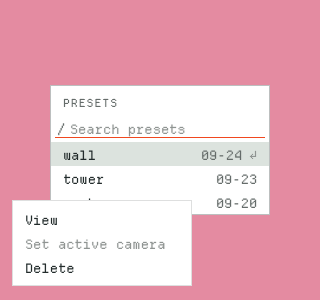
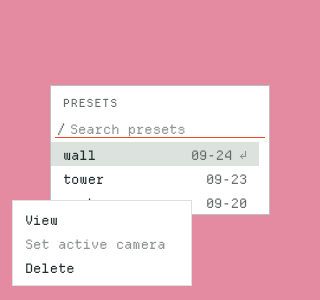
[U2b.4.15 fix] a settling frame keeps its copy/paste request; picker tests, overlays golden and the Bodies page follow the scrolling results
Found at the U4a.9 resume: four Tier A cases were red at ac4ec089 (each reproduced with the U2b.4.15 picker as committed).
1. Engine: a frame that settles builds again through `begin_frame`, which cleared `out.paste` and `out.clipboard`, so a copy or paste
   asked for in the first build was lost (the quiet build has no key to ask again). The picker's measured results now settle a frame
   whose rows change height, so Cmd+V right after the query reset lost the paste (window_pxui_picker). `Ui::frame` keeps both across
   the settle builds. (The same reset also drops `out.background` when a theme change settles: recorded in Found, not fixed here.)
2. window_pxui_picker read the last build's result; a settling frame's quiet build returns `Pick::None` by contract (no input seen
   twice), so the harness keeps the first build's result and clears it before each frame. Same assertions.
3. pxui_abi safety::text_with_nul_crosses_as_ordinary_text counted one build; the first frame of a new picker settles its results list
   once (a never-laid-out list guesses the window's height), so it counts 2, asserted exactly, the NUL query echoed in both.
4. gpu_parity_overlays golden refreshed (1x, 2x): the presets picker's rows now leave the 10-point scrollbar gutter of an overflowing
   scroll list (the results scroll, U2b.4.15); the rows end 10 points earlier, nothing else moves.
[…]

Changed region(s): [[0.5938, 0.45, 0.8438, 0.57], [0.625, 0.57, 0.8125, 0.63], [0.625, 0.66, 0.8125, 0.69]]

diff --git a/tools/pxui_gallery/src/bodies_page.rs b/tools/pxui_gallery/src/bodies_page.rs
@@ -215,10 +215,15 @@ thread_local! {
 }
 
 /// A picker row whose art is a 20-point cover (`PickArt::Image`: the app's image for the id, an accent tile until there is one) or its
-/// glyph, then its label and, at the end, its detail; the engine draws the group headings above it.
+/// glyph, then its label and, at the end, its detail; a group heading above it in the hint look, a row high, the spacing scale's third step in.
 fn cover_row(ui: &mut Ui, c: &PickerConfig) {
     let state = state_of(&c.state);
-    let (look, hint, accent) = { let t = ui.theme(); (*t.list.pick(state), t.hint.idle.text, t.tokens.accent) };
+    let (look, hint, accent, heading, inset) = { let t = ui.theme(); (*t.list.pick(state), t.hint.idle.text, t.tokens.accent, t.hint.idle, (t.tokens.space[2] * t.tokens.density).round()) };
+    if c.has_head == 1 {
+        ui.style(&c.head, &pxui::theme::States::of(heading), pxui::theme::State::default());
+        let row_height = ui.row_height();
+        ui.set_node_layout(&c.head, &Node { w: Size::Grow, h: Size::Px(row_height), margin: Edges { l: inset, ..Edges::ZERO }, ..ui.node_layout(&c.head) });
+    }
     ui.style(&c.row, &pxui::theme::States::of(look), state);
     let mut row = ui.node_layout(&c.row);
     (row.axis, row.align, row.gap, row.padding) = (Axis::Row, Align::Center, 6.0, Edges { l: 8.0, r: 8.0, ..Edges::ZERO });

diff --git a/crates/private/pxui_core/tests/cases/ui_b.rs b/crates/private/pxui_core/tests/cases/ui_b.rs
@@ -37,6 +37,8 @@ pub fn window_pxui_picker() {
         } else {
             vec![]
         };
+        // a frame whose results change height settles (builds again without its input): keep the result its first build gave
+        last.set(Pick::None);
         host_frame(ui, &frame_at(keys, 1.0, 0.0, events), &mut |ui| {
             ui.panel("p", &pxui_core::ui::Overlay::DEFAULT.at(pxui_types::geom::Point::new(0.0, 0.0)).w_px(240.0).name("p"), &mut |ui| {
                 let off: Rc<dyn Fn(i64) -> bool> = {
@@ -47,7 +49,7 @@ pub fn window_pxui_picker() {
                 let q = query.borrow().clone();
                 let (edited, result) = { let r = ui.picker("Search", "Search", &q, &o, (None, Some(&*off), None), &mut |q: &str, out: &mut pxui_core::ui::PickRows| for (a, b) in rows(q) { out.push(pxui_types::ui::PickRow::new(&a).detail(&b)) }); (r.query.to_owned(), r.pick) };
                 *query.borrow_mut() = edited;
-                last.set(result);
+                if result != Pick::None { last.set(result); }
             });
         });
     };

diff --git a/crates/private/pxui_core/src/ui_core.rs b/crates/private/pxui_core/src/ui_core.rs
@@ -6805,9 +6805,13 @@ impl Ui {
             quiet.input.keys.clone_from(&frame.input.keys);
             quiet.input.events.clear();
             (quiet.pixel_scale, quiet.fps, quiet.mouse_delta) = (frame.pixel_scale, frame.fps, (0.0, 0.0));
+            // a copy or paste the first build asked for is this frame's: the quiet build sees no key to ask again
+            let (paste, clipboard) = (self.out.paste, self.out.clipboard.take());
             self.begin_frame(&quiet);
             f(self);
             self.end_frame(&quiet);
+            self.out.paste |= paste;
+            if self.out.clipboard.is_none() { self.out.clipboard = clipboard; }
             self.quiet = Some(quiet);
         }
         self.settle = false;

diff --git a/crates/private/pxui_abi/src/safety.rs b/crates/private/pxui_abi/src/safety.rs
@@ -235,7 +235,7 @@ fn text_with_nul_crosses_as_ordinary_text() {
     let ui = create();
     let mut built = 0u32;
     assert_eq!(run(ui, Some(build), (&mut built as *mut u32).cast()), 0);
-    assert_eq!(built, 1);
+    assert_eq!(built, 2, "the first frame settles the picker's new results list once (U2b.4.15), the query echoed both times");
     unsafe { pxui_ui_destroy(ui); }
 }
 
